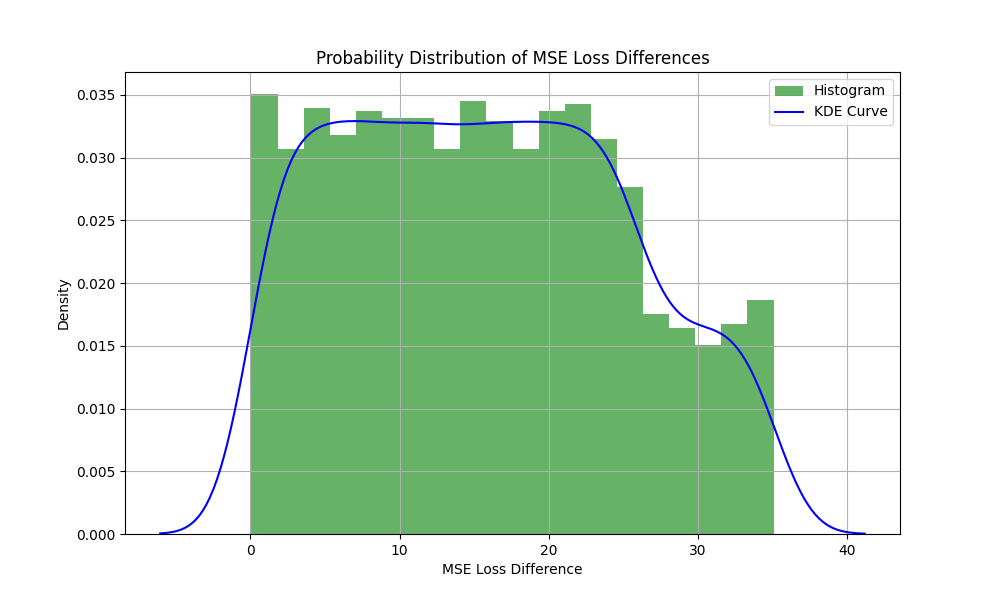
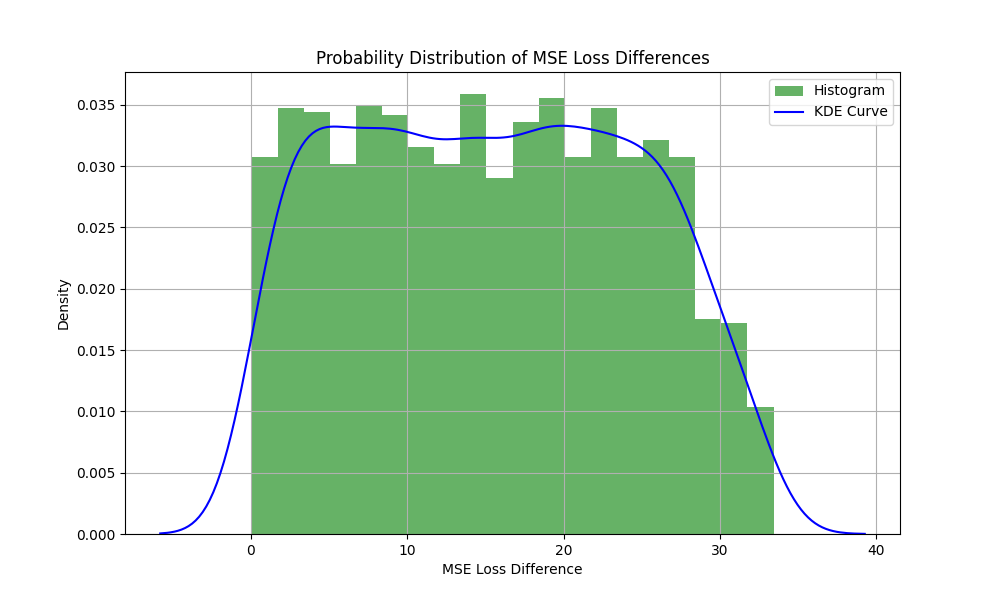
1106

diff --git a/dosing_volume/tip_visual_error_2410/scripts/train.py b/dosing_volume/tip_visual_error_2410/scripts/train.py
@@ -47,9 +47,10 @@ noise_level = 0.0
 normalizer = 'GaussianNormalizer'  # [CustomizedNormalizer, GaussianNormalizer, SafeLimitsNormalizer]
 obs_steps = 1
 action_steps = 1
+num_classes = 60
 
 # Training
-mode = 'inference'  # ['train', 'inference']
+mode = 'inference'  # ['train', 'inference', 'case_inference']
 device = 'cuda'
 diffusion_gradient_steps = 10000
 batch_size = 16
@@ -85,7 +86,7 @@ use_ema = True
 if __name__ == '__main__':
     # --------------- Data Loading -----------------
     TimeCode = ((datetime.now()).strftime("%m%d_%H%M")).replace(" ", "")
-    rootpath = f'{TimeCode}_transformer'
+    rootpath = f'{TimeCode}_{mode}'
     save_path = f'dosing_volume/tip_visual_error_2410/results/diffuser/{rootpath}/'
     if os.path.exists(save_path) is False:
         os.makedirs(save_path)
@@ -149,7 +150,7 @@ if __name__ == '__main__':
         for epoch in tqdm(range(num_epochs)):
             for batch in train_loader:
                 nobs, action = batch[0].to(device).float(), batch[1].to(device).float() # [image, label] image size: (batch_size, 3, 120, 120), label size: (batch_size)
-                naction = normalize_label(action, num_classes=64)  # (batch_size, 1)
+                naction = normalize_label(action, num_classes=num_classes)  # (batch_size, 1)
                 naction = naction.unsqueeze(1).unsqueeze(2)  # (batch_size, 1, action_dim) (batch,1,1)
                 condition = {'image': nobs}
 
@@ -182,8 +183,8 @@ if __name__ == '__main__':
     
     elif mode == 'inference':
         # ---------------------- Testing ----------------------
-        save_path = 'dosing_volume/tip_visual_error_2410/results/diffuser/1105_1556_transformer/diffusion_ckpt_latest.pt'
-        agent.load(save_path)
+        load_path = 'dosing_volume/tip_visual_error_2410/results/diffuser/1106_1420_transformer/diffusion_ckpt_5000.pt'
+        agent.load(load_path)
         agent.eval()
         inference_losses = []
         prior = torch.zeros((1, horizon, action_dim), device=device)
@@ -192,21 +193,17 @@ if __name__ == '__main__':
             for batch in tqdm(test_loader, desc="Evaluating on Test Set"):
                 nobs, gth_label = batch[0].to(device).float(), batch[1].to(device).float()  # [image, label]
                 condition = {'image': nobs}
-                # resnet_condition = agent.model["condition"](condition)  # (1,512)
-                # trajectory, log = agent.sample(prior,
-                #                                 solver=solver,
-                #                                 n_samples = 1,
-                #                                 sample_steps=sampling_steps,
-                #                                 use_ema=use_ema, w_cg=w_cg, temperature=temperature)
                 
                 naction, _ = agent.sample(prior=prior, n_samples=1, 
                                           sample_steps=sampling_steps, solver=solver, 
                                           condition_cfg=condition, w_cfg=w_cg, use_ema=use_ema)   # (env_num, 64, 12)
                 
-                pred_label = unnormalize_label(naction, num_classes=64) 
+                pred_label = unnormalize_label(naction, num_classes=num_classes) 
                 # loss = F.mse_loss(pred_label, gth_label)
                 loss = F.l1_loss(pred_label.squeeze(), gth_label)
+                print('pred_label:', pred_label, 'gth_label:', gth_label, 'loss:', loss.item())
                 inference_losses.append(loss.item())
+        
         loss_differences = np.array(inference_losses)
         avg_loss = np.mean(loss_differences)
         median_loss = np.median(loss_differences)
@@ -222,9 +219,20 @@ if __name__ == '__main__':
         plt.ylabel("Density")
         plt.legend()
         plt.grid()
-        plt.savefig("loss_distribution.png")
+        plt.savefig(save_path + f"loss_distribution.png")
         plt.show()
                    
+    elif mode == 'case_inference':
+        # ---------------------- Case Test ----------------------
+        load_path = 'dosing_volume/tip_visual_error_2410/results/diffuser/1105_1556_transformer/diffusion_ckpt_5000.pt'
+        agent.load(load_path)
+        agent.eval()
+        inference_losses = []
+        prior = torch.zeros((1, horizon, action_dim), device=device)
+
+        with torch.no_grad():
+            for batch in tqdm(test_loader, desc="Evaluating on Test Set"):
+                nobs, gth_label = batch[0].to(device).float(), batch[1].to(device).float()
     
     else:
         raise ValueError(f"Invalid mode: {mode}")

diff --git a/dosing_volume/tip_visual_error_2410/scripts/normalize_test.py b/dosing_volume/tip_visual_error_2410/scripts/normalize_test.py
@@ -1,0 +1,7 @@
+from utils.utils import seed_everything, device_check, normalize_label, unnormalize_label
+
+seed_everything(1)
+action_label = 30
+action = normalize_label(action_label)
+print('the normalized a:', action)
+print('the unnormalized a:', unnormalize_label(action))
